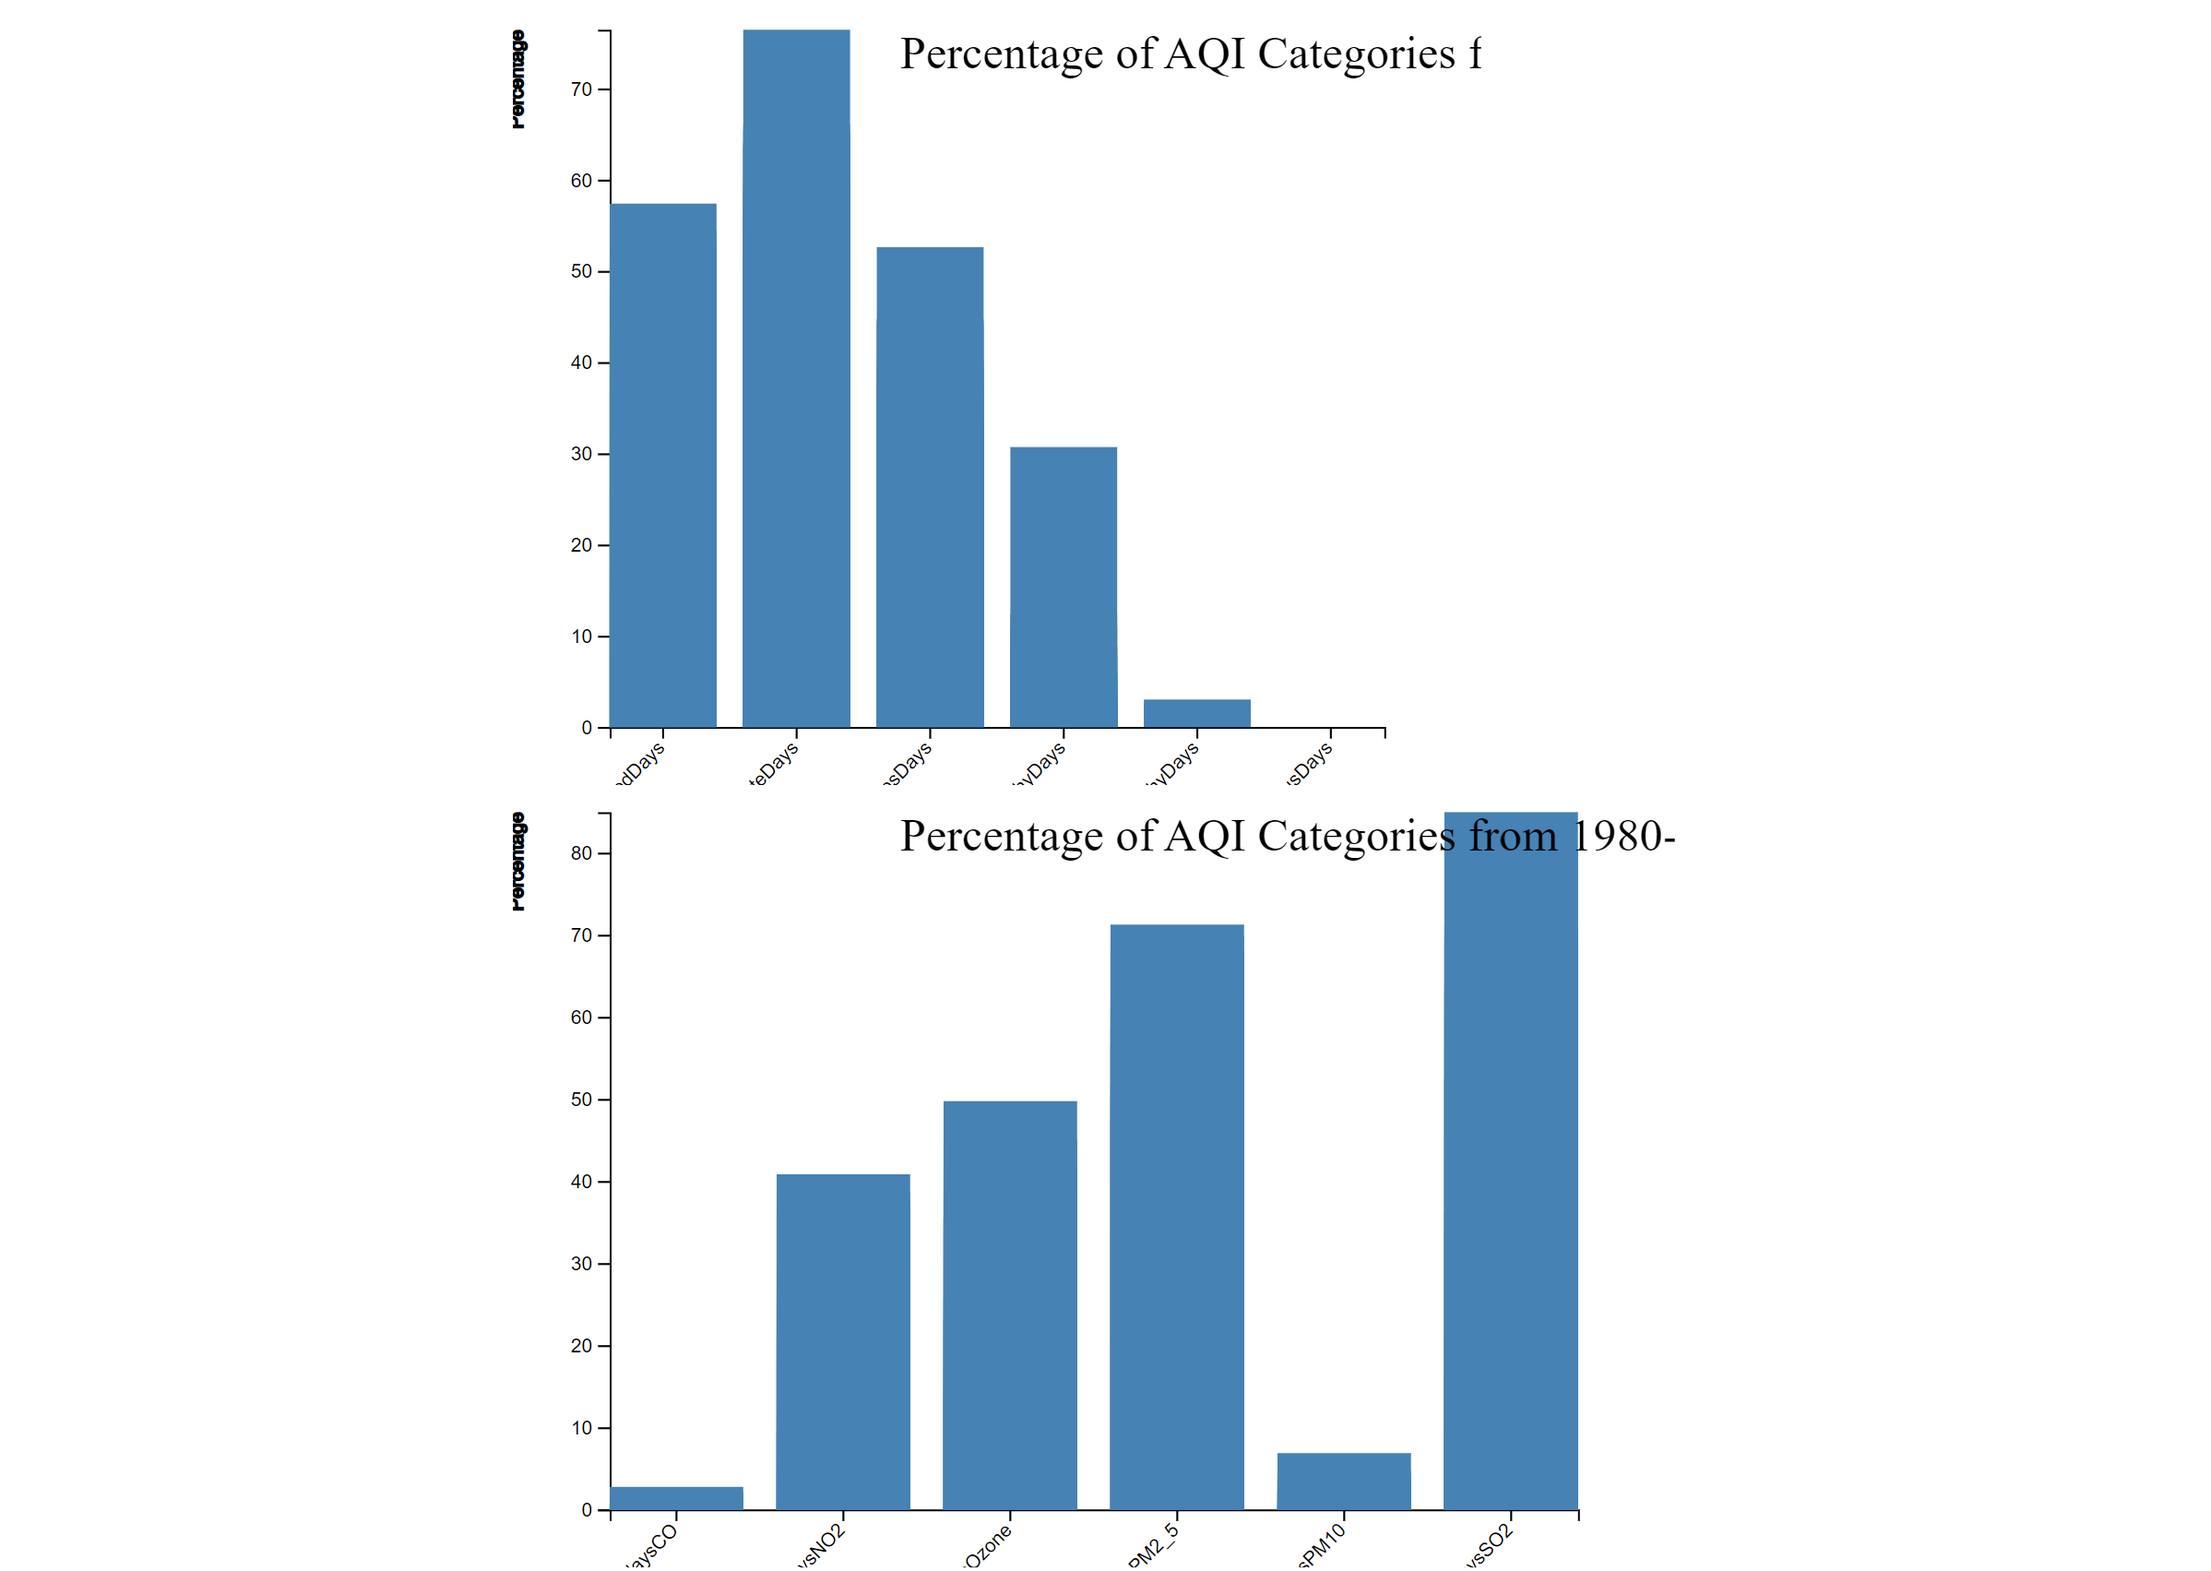
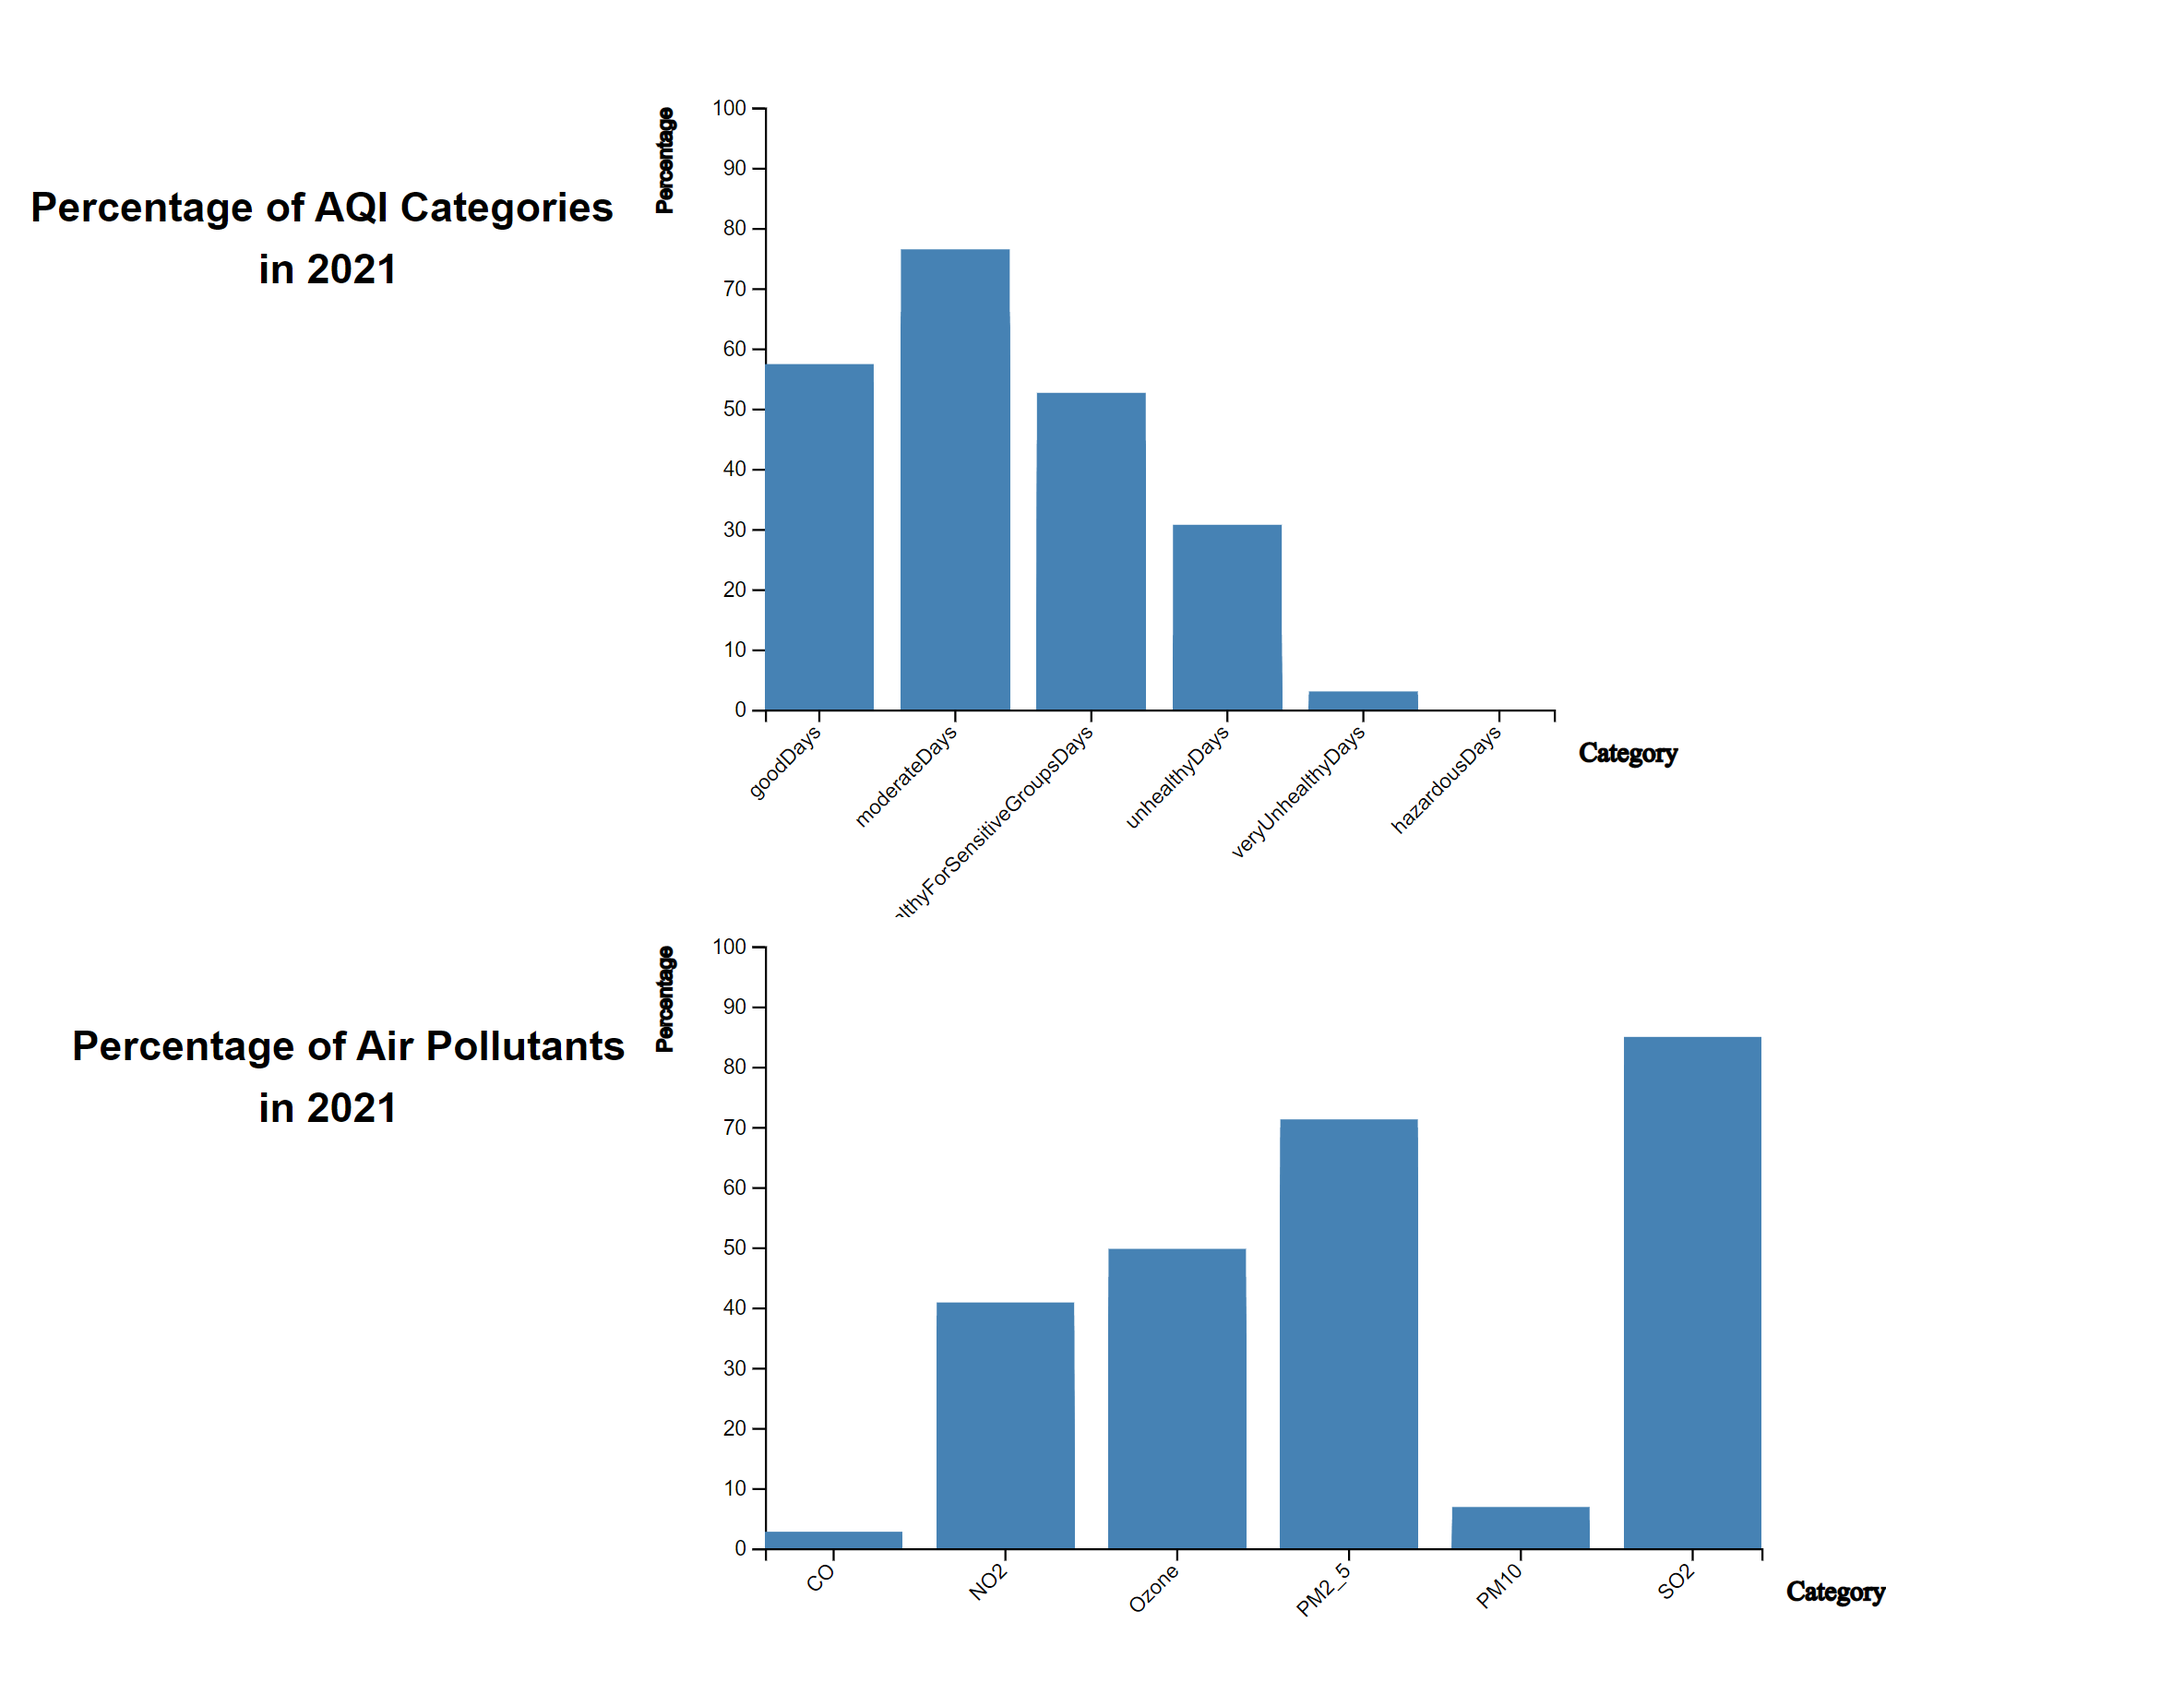
Update screenshots and add dropdown

diff --git a/Bad Air!/js/main.js b/Bad Air!/js/main.js
@@ -1,7 +1,7 @@
 
 console.log("Hello world");
 
-let data;
+let data, AQILineChart, AirLineChart;
 let hamCountyAQI = []
 let hamCountyAir = []
 let hamCountyDays = []
@@ -59,7 +59,7 @@ d3.csv('data/data.csv')
         var aqiLegendKeys = ["Max AQI", "90th Percentile AQI", "Median AQI"];
         var aqiColors = ["#E15759", "#76B7B2", "#ECD948"];
 
-        let AQILineChart = new LineChart({
+        AQILineChart = new LineChart({
             'parentElement': '#lineChart', 
             'containerHeight': 400, 
             'containerWidth': 700,
@@ -74,7 +74,7 @@ d3.csv('data/data.csv')
         var airLegendKeys = ["CO", "NO2", "Ozone", "PM2.5", "PM10", "SO2"];
         var airColors = d3.schemeTableau10.slice(4);
 
-        let AirLineChart = new LineChart({
+        AirLineChart = new LineChart({
             'parentElement': '#airLineChart',
             'containerHeight':400, 
             'containerWidth': 700, 
@@ -106,6 +106,21 @@ d3.csv('data/data.csv')
 .catch(error => {
     console.error('Error loading the data');
 });
+
+d3.select('#start-year-input').on('change', function() {
+    // Get selected year
+    const minYear = parseInt(d3.select(this).property('value'));
+  
+    // Filter dataset accordingly
+    let filteredData = data.filter(d => d.year >= minYear);
+  
+    // Update chart
+    AQILineChart.data = filteredData;
+    AirLineChart.updateVis();
+    AirLineChart.data = filteredData;
+    AirLineChart.updateVis();
+    console.log("updating charts");
+  });
 
 
 

diff --git a/Bad Air!/index.html b/Bad Air!/index.html
@@ -14,13 +14,14 @@
 <body>    
     <!-- Add HTML content, SVG drawing area, ... -->
     <div id="tooltip"></div>
-
+    <div>
+        Start year: <input type="number" value="2016" min="2016" max="2020" id="start-year-input">
+    </div>
     <div class="chart-section">
         <div class='inline'>
             <svg id="lineChartLegend">
                 <text x="54" y="15" class="chart-title">Air Quality Indexes(AQI)</text>
                 <text x="120" y="45" class="chart-title">Per Year</text>
-
             </svg>
             <svg id="lineChart"></svg>
         </div>

diff --git a/Bad Air!/css/style.css b/Bad Air!/css/style.css
@@ -69,3 +69,4 @@
   text-align:center;
   font: bold 20px sans-serif;
 }
+
